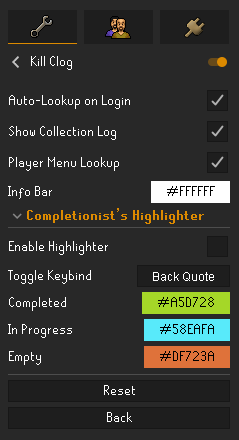
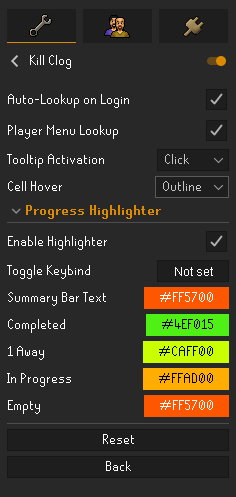
readme + fresh screenshots for plugin hub submission

diff --git a/README.md b/README.md
@@ -1,3 +1,61 @@
 # Kill Clog
 
-New README coming soon with all of Kill Clog's new features, improvements, and bug fixes.
+Boss KC tracker with collection log integration for RuneLite.
+
+Look up any player. See every boss kill, collection log progress, and account milestone in one panel. Sync your own clog in-game and watch the numbers light up.
+
+![sync-path](screenshots/sync-path.gif)
+
+Open your collection log. Click the trophy. Done.
+
+## Panel
+
+![panel](screenshots/panel.png)
+
+65 bosses. Color-coded by collection log completion. One glance tells you where you stand.
+
+## Tooltips
+
+Hover a cell to see obtained items, missing items, and drop counts. Or switch to click mode if you prefer pinned tooltips.
+
+| | | | |
+|:---:|:---:|:---:|:---:|
+| ![config-hover](screenshots/config-hover-outline.png) | ![tooltip-hover](screenshots/tooltip-hover.gif) | ![tooltip-click](screenshots/tooltip-click.gif) | ![config-click](screenshots/config-click-tint.png) |
+| Hover + Outline | Hover mode | Click mode | Click + Tint |
+
+![tooltip-boss](screenshots/tooltip-boss.png)
+
+## Summaries
+
+Click any summary bar for a detailed breakdown. Works on any player.
+
+| | | |
+|:---:|:---:|:---:|
+| ![summary-player-reg](screenshots/summary-player-reg.png) | ![summary-player-hcim](screenshots/summary-player-hcim.png) | ![summary-pvm](screenshots/summary-pvm.png) |
+| ![summary-clog](screenshots/summary-clog.png) | ![summary-skills](screenshots/summary-skills.png) | ![summary-pvp](screenshots/summary-pvp.png) |
+
+## Activities Tray
+
+Collapsible section for clues, rares, PvP, and minigames. Tuck it away when you just want the boss grid.
+
+| | | |
+|:---:|:---:|:---:|
+| ![tray-open](screenshots/tray-open.png) | ![tray-toggle](screenshots/tray-toggle.gif) | ![tray-closed](screenshots/tray-closed.png) |
+
+## Player Lookup
+
+Right-click any player in-game for a quick lookup.
+
+![player-menu](screenshots/player-menu.png)
+
+## Configuration
+
+![config](screenshots/config.png)
+
+- **Auto-Lookup on Login** - automatically loads your stats when you log in
+- **Player Menu Lookup** - adds "Kill Clog" to right-click menus
+- **Tooltip Activation** - hover or click-to-reveal
+- **Cell Hover** - outline or tint feedback
+- **Progress Highlighter** - color KC numbers by clog completion
+- **Toggle Keybind** - shortcut to flip the highlighter on/off
+- **Fully configurable colors** - completed, 1 away, in progress, empty, summary bar text
